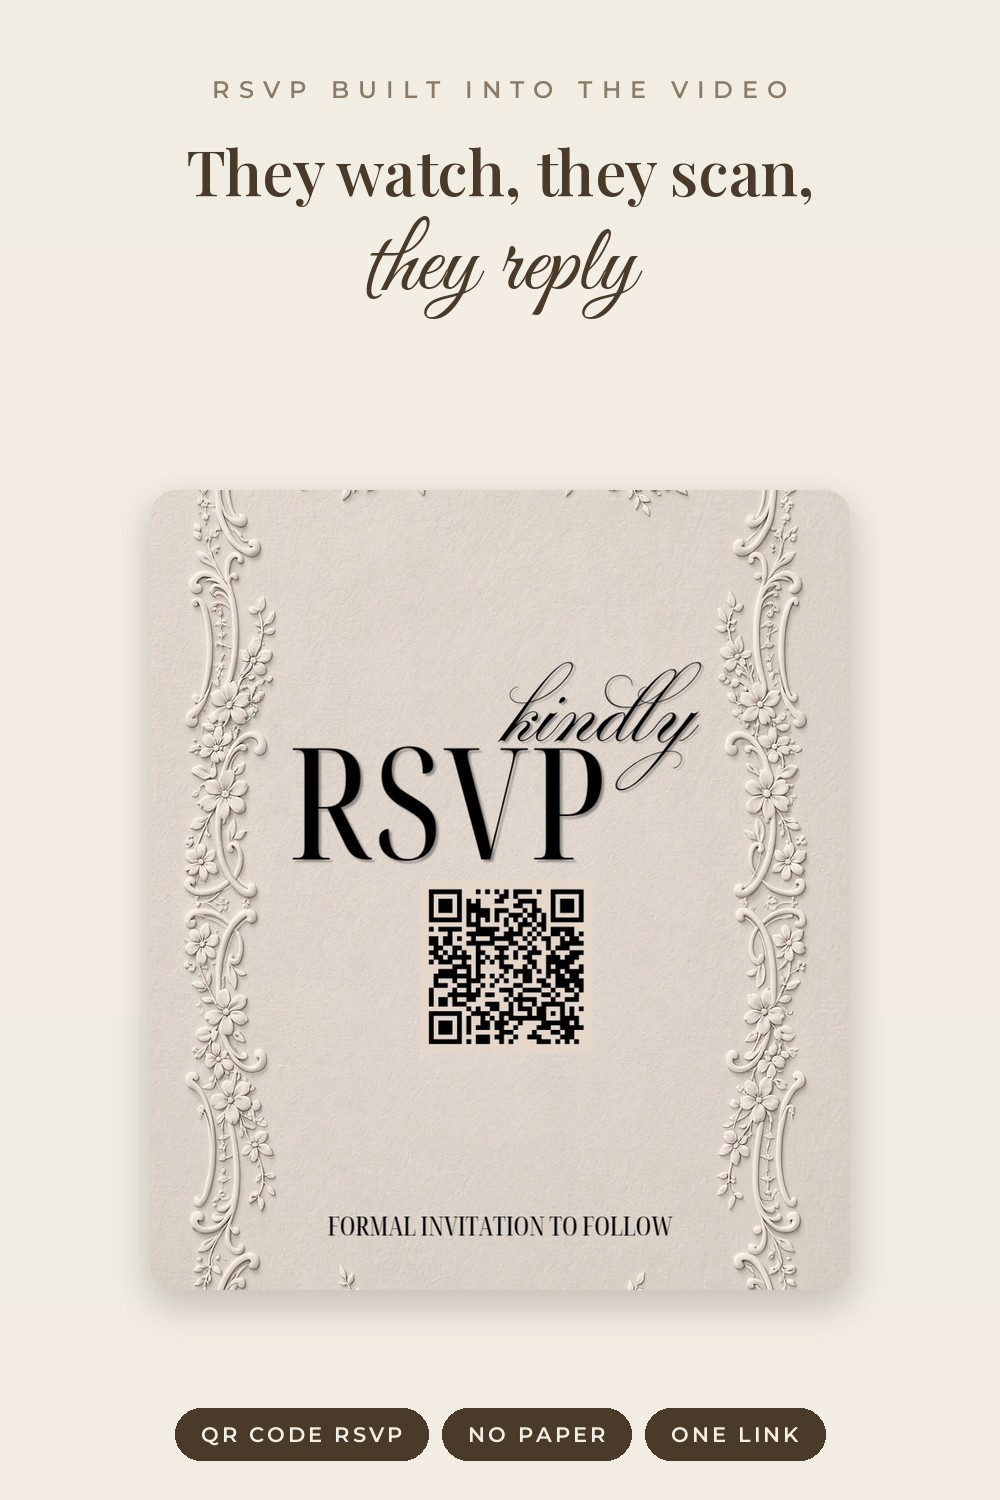
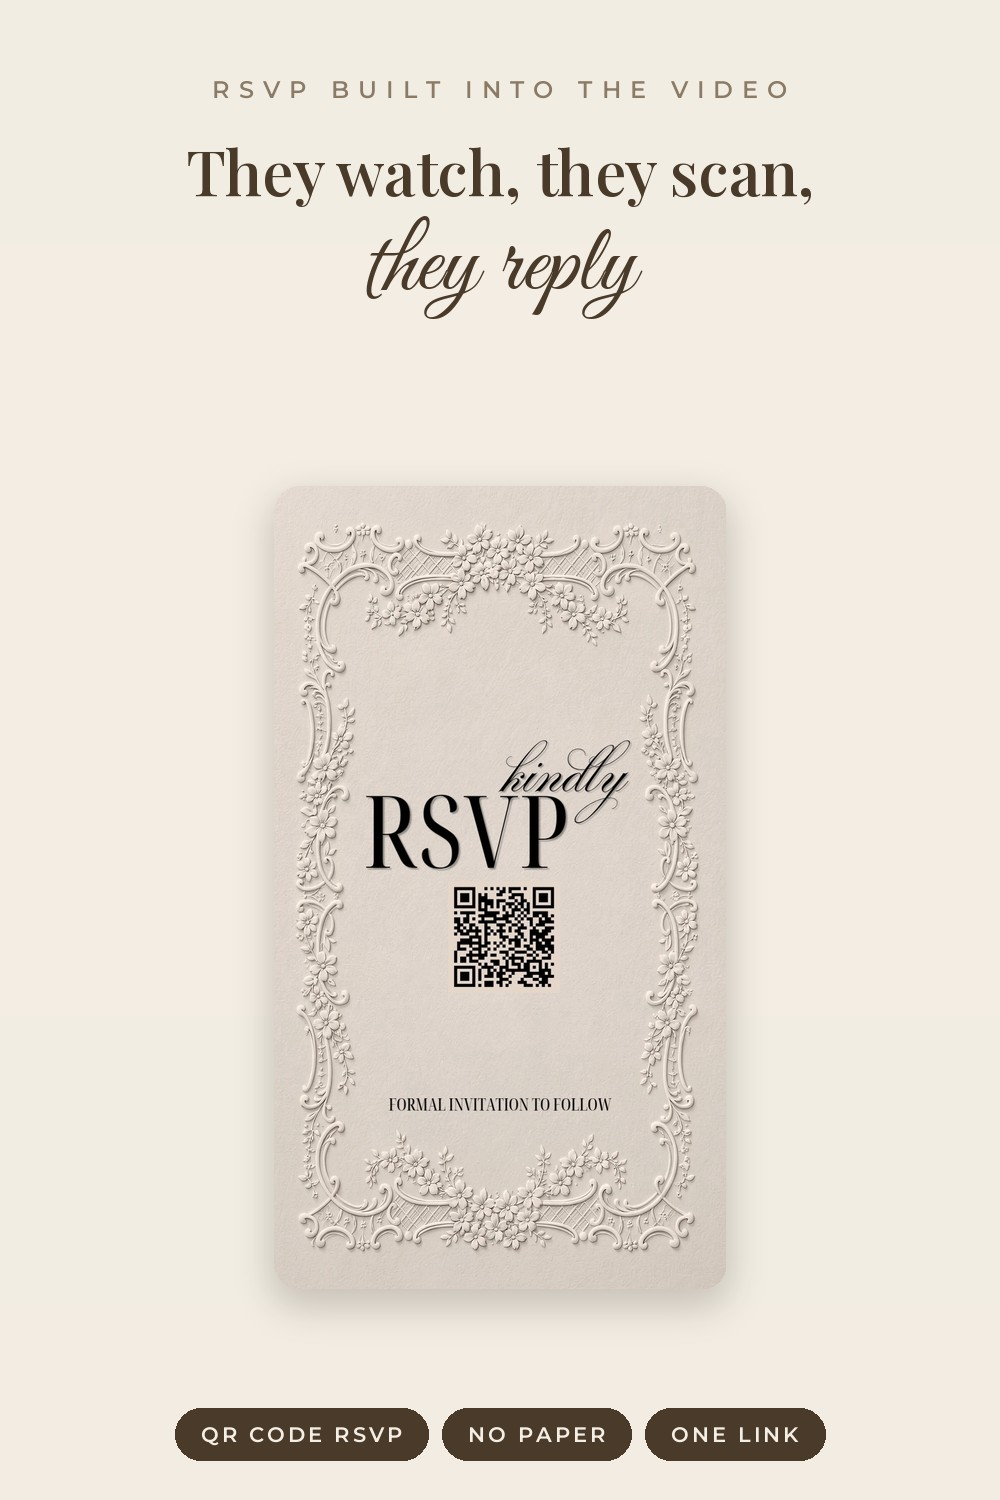
Restore curated pin queue wiped by the scheduled build; make build_pins merge, not overwrite
The Mon/Thu factory build regenerated pin_queue.json from the palette list
alone, deleting the 15 hand-made listing pins and their SEO. build_pins now
merges with the existing queue: hand-written text wins for known ids and
unknown ids are preserved. Also ships the uncropped save-the-date pin images
and copy targeted at top Pinterest searches.

Claude-Session: https://claude.ai/code/session_011kmtsDqSjDmuRsYCGyqzjP

Changed region(s): [[0.124, 0.3067, 0.868, 0.8893]]

diff --git a/pins/ivory-frame-save-the-date/make_pins.py b/pins/ivory-frame-save-the-date/make_pins.py
@@ -47,6 +47,12 @@ def frame(name):
     return Image.open(os.path.join(SRC, f"{name}.jpg")).convert("RGB")
 
 
+def fit_frame(name, w):
+    """Full 9:16 video frame resized to width w - nothing cropped."""
+    im = frame(name)
+    return im.resize((w, int(im.height * w / im.width)), Image.LANCZOS)
+
+
 # ---------------------------------------------------------------- pin 1: seal hero
 def pin_seal():
     img = canvas().convert("RGBA")
@@ -55,8 +61,8 @@ def pin_seal():
     y = headline(d, 128, ["Sealed with wax,"], 68)
     y = script_line(d, y + 4, "sent by phone", 96)
     subline(d, y + 18, "An embossed envelope opens - and your date is saved")
-    crop = cover(frame("seal"), 760, 830, anchor="center")
-    box = (120, 470, 880, 1300)
+    crop = fit_frame("seal", 466)
+    box = (267, 470, 267 + crop.width, 470 + crop.height)
     img = shadow_card(img, box)
     img.alpha_composite(rounded(crop, 26), (box[0], box[1]))
     d = ImageDraw.Draw(img)
@@ -72,12 +78,12 @@ def pin_story():
     y = headline(d, 112, ["One tap -"], 64)
     y = script_line(d, y + 2, "the whole story", 94)
     cards = [("seal", "THE SEAL"), ("names", "YOUR NAMES"), ("calendar", "THE DATE")]
-    cw, ch = 292, 610
+    cw, ch = 292, 519
     gap = 24
     x = (W - (cw * 3 + gap * 2)) / 2
     y0 = 420
     for name, label in cards:
-        crop = cover(frame(name), cw, ch, anchor="center")
+        crop = fit_frame(name, cw)
         box = (x, y0, x + cw, y0 + ch)
         img_l = shadow_card(img, box, radius=16, blur=12, alpha=48, offset=(0, 8))
         img.paste(img_l, (0, 0))
@@ -85,7 +91,7 @@ def pin_story():
         d = ImageDraw.Draw(img)
         label_under(d, x + cw / 2, y0 + ch + 14, label)
         x += cw + gap
-    subline(d, 1128, "Then a built-in RSVP link - guests reply in one tap")
+    subline(d, 1042, "Then a built-in RSVP link - guests reply in one tap")
     pills(d, ["ANIMATED VIDEO", "RSVP & QR", "CANVA FREE"])
     vm.save(img, "pin-story-strip.jpg")
 
@@ -96,8 +102,10 @@ def pin_names():
     d = ImageDraw.Draw(img)
     eyebrow(d, 70, "ELEGANT VIDEO SAVE THE DATE")
     y = headline(d, 122, ["Your names,", "beautifully in motion"], 66)
-    ph = phone_with(frame("names"), 1000)
-    paste_center(img, ph, W / 2, 878)
+    crop = fit_frame("names", 500)
+    box = (250, 434, 250 + crop.width, 434 + crop.height)
+    img = shadow_card(img, box)
+    img.alpha_composite(rounded(crop, 24), (box[0], box[1]))
     d = ImageDraw.Draw(img)
     pills(d, ["EDIT NAMES & DATE", "SEND BY TEXT OR EMAIL"])
     vm.save(img, "pin-names-phone.jpg")
@@ -109,8 +117,10 @@ def pin_calendar():
     d = ImageDraw.Draw(img)
     eyebrow(d, 70, "SAVE OUR DATE")
     y = headline(d, 122, ["A date they will", "never forget"], 66)
-    ph = phone_with(frame("calendar"), 1000)
-    paste_center(img, ph, W / 2, 878)
+    crop = fit_frame("calendar", 500)
+    box = (250, 434, 250 + crop.width, 434 + crop.height)
+    img = shadow_card(img, box)
+    img.alpha_composite(rounded(crop, 24), (box[0], box[1]))
     d = ImageDraw.Draw(img)
     pills(d, ["YOUR MONTH & DAY", "ANIMATED HEART", "CANVA"])
     vm.save(img, "pin-calendar-phone.jpg")
@@ -123,8 +133,8 @@ def pin_rsvp_qr():
     eyebrow(d, 74, "RSVP BUILT INTO THE VIDEO")
     y = headline(d, 128, ["They watch, they scan,"], 62)
     y = script_line(d, y + 4, "they reply", 96)
-    crop = cover(frame("rsvp"), 700, 800, anchor="center")
-    box = (150, 490, 850, 1290)
+    crop = fit_frame("rsvp", 452)
+    box = (274, 486, 274 + crop.width, 486 + crop.height)
     img = shadow_card(img, box)
     img.alpha_composite(rounded(crop, 26), (box[0], box[1]))
     d = ImageDraw.Draw(img)

diff --git a/build.py b/build.py
@@ -42,11 +42,19 @@ def _videos(folder):
 
 
 def build_pins():
+    # The queue is also curated by hand (per-listing pin batches, SEO rewrites),
+    # so regeneration must MERGE with the existing file, never overwrite it:
+    # hand-written text wins for known ids, unknown ids are kept as-is.
+    try:
+        with open(os.path.join(Q_DIR, "pin_queue.json")) as f:
+            existing = {e["id"]: e for e in json.load(f)}
+    except (OSError, ValueError):
+        existing = {}
     items = []
     for pal in C.PALETTES:
         rel = f"output/pins/{pal['slug']}.png"
         R.palette_pin(pal, os.path.join(ROOT, rel))
-        items.append({
+        gen = {
             "id": f"PIN_{pal['slug']}",
             "channels": ["pinterest"],
             "format": "pin",
@@ -58,7 +66,15 @@ def build_pins():
             "image_url": raw(rel),
             "board_id": C.PALETTE_BOARD_ID,
             "status": "ready",
-        })
+        }
+        prev = existing.get(gen["id"])
+        if prev:
+            for k in ("title", "description", "link", "board_id", "status"):
+                if prev.get(k):
+                    gen[k] = prev[k]
+        items.append(gen)
+    known = {e["id"] for e in items}
+    items += [e for e in existing.values() if e["id"] not in known]
     return items
 
 
